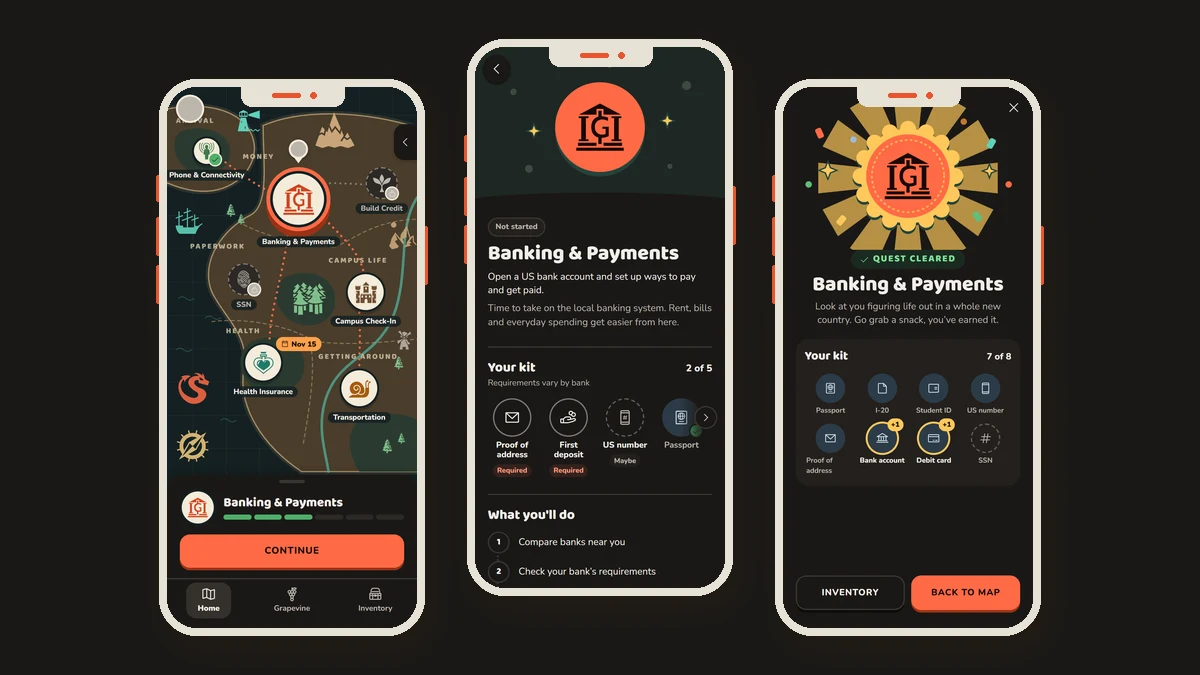
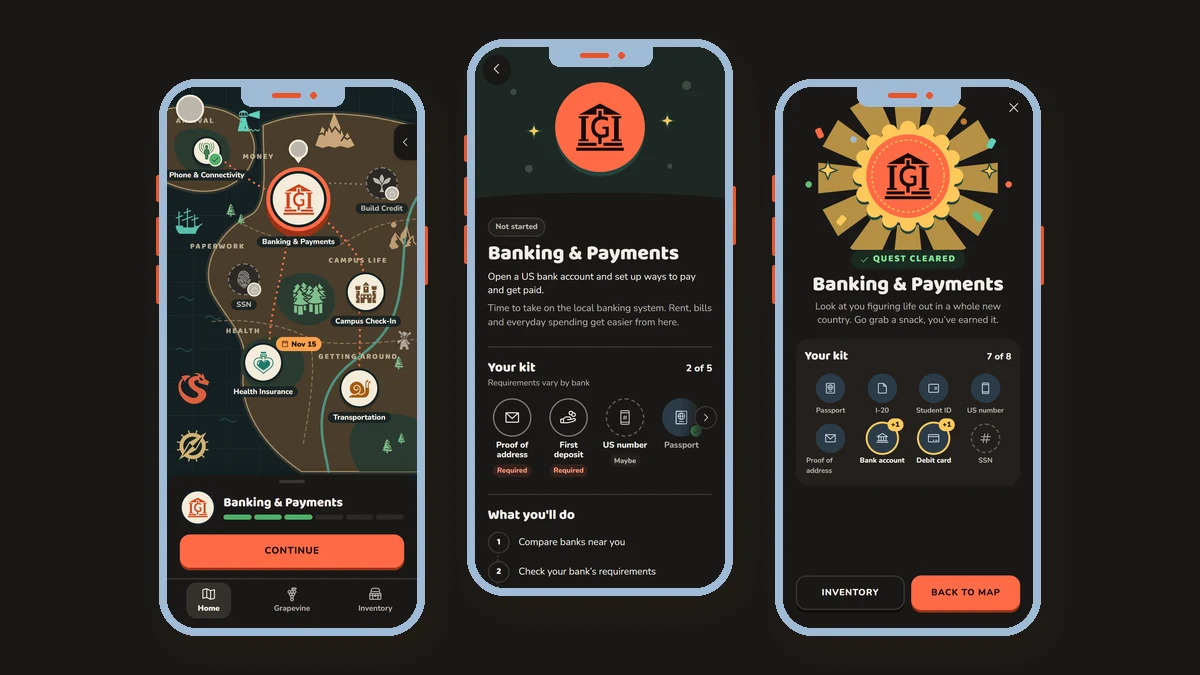
Lendi: blue phone frames in dark mode

Changed region(s): [[0.1233, 0.0311, 0.6167, 0.9644], [0.6475, 0.0933, 0.8633, 0.9644], [0.8633, 0.1556, 0.8942, 0.9022]]

diff --git a/case-studies/boutique-visit-recaps/index.html b/case-studies/boutique-visit-recaps/index.html
@@ -26,9 +26,9 @@
   <link rel="preconnect" href="https://fonts.gstatic.com" crossorigin>
   <link href="https://fonts.googleapis.com/css2?family=Playfair+Display:ital,wght@0,700;0,900;1,900&family=Lora:ital,wght@0,400;0,700;1,400&family=Inter:wght@400;500;600&family=Manufacturing+Consent&display=swap" rel="stylesheet">
   <!-- Same ?v= as index.html; bump all three together -->
-  <link rel="stylesheet" href="../../assets/css/style.css?v=2026-11-15b">
-  <link rel="stylesheet" href="../../assets/css/case-study.css?v=2026-11-15b">
-  <script src="../../assets/js/main.js?v=2026-11-15b" defer></script>
+  <link rel="stylesheet" href="../../assets/css/style.css?v=2026-11-15c">
+  <link rel="stylesheet" href="../../assets/css/case-study.css?v=2026-11-15c">
+  <script src="../../assets/js/main.js?v=2026-11-15c" defer></script>
 </head>
 <body>
 

diff --git a/case-studies/insightcuts/index.html b/case-studies/insightcuts/index.html
@@ -26,9 +26,9 @@
   <link rel="preconnect" href="https://fonts.gstatic.com" crossorigin>
   <link href="https://fonts.googleapis.com/css2?family=Playfair+Display:ital,wght@0,700;0,900;1,900&family=Lora:ital,wght@0,400;0,700;1,400&family=Inter:wght@400;500;600&family=Manufacturing+Consent&display=swap" rel="stylesheet">
   <!-- Same ?v= as index.html; bump all three together -->
-  <link rel="stylesheet" href="../../assets/css/style.css?v=2026-11-15b">
-  <link rel="stylesheet" href="../../assets/css/case-study.css?v=2026-11-15b">
-  <script src="../../assets/js/main.js?v=2026-11-15b" defer></script>
+  <link rel="stylesheet" href="../../assets/css/style.css?v=2026-11-15c">
+  <link rel="stylesheet" href="../../assets/css/case-study.css?v=2026-11-15c">
+  <script src="../../assets/js/main.js?v=2026-11-15c" defer></script>
 </head>
 <body>
 

diff --git a/case-studies/lendi/index.html b/case-studies/lendi/index.html
@@ -26,9 +26,9 @@
   <link rel="preconnect" href="https://fonts.gstatic.com" crossorigin>
   <link href="https://fonts.googleapis.com/css2?family=Playfair+Display:ital,wght@0,700;0,900;1,900&family=Lora:ital,wght@0,400;0,700;1,400&family=Inter:wght@400;500;600&family=Manufacturing+Consent&display=swap" rel="stylesheet">
   <!-- Same ?v= as index.html; bump all three together -->
-  <link rel="stylesheet" href="../../assets/css/style.css?v=2026-11-15b">
-  <link rel="stylesheet" href="../../assets/css/case-study.css?v=2026-11-15b">
-  <script src="../../assets/js/main.js?v=2026-11-15b" defer></script>
+  <link rel="stylesheet" href="../../assets/css/style.css?v=2026-11-15c">
+  <link rel="stylesheet" href="../../assets/css/case-study.css?v=2026-11-15c">
+  <script src="../../assets/js/main.js?v=2026-11-15c" defer></script>
 </head>
 <body>
 

diff --git a/case-studies/tiffany-wishlist/index.html b/case-studies/tiffany-wishlist/index.html
@@ -26,9 +26,9 @@
   <link rel="preconnect" href="https://fonts.gstatic.com" crossorigin>
   <link href="https://fonts.googleapis.com/css2?family=Playfair+Display:ital,wght@0,700;0,900;1,900&family=Lora:ital,wght@0,400;0,700;1,400&family=Inter:wght@400;500;600&family=Manufacturing+Consent&display=swap" rel="stylesheet">
   <!-- Same ?v= as index.html; bump all three together -->
-  <link rel="stylesheet" href="../../assets/css/style.css?v=2026-11-15b">
-  <link rel="stylesheet" href="../../assets/css/case-study.css?v=2026-11-15b">
-  <script src="../../assets/js/main.js?v=2026-11-15b" defer></script>
+  <link rel="stylesheet" href="../../assets/css/style.css?v=2026-11-15c">
+  <link rel="stylesheet" href="../../assets/css/case-study.css?v=2026-11-15c">
+  <script src="../../assets/js/main.js?v=2026-11-15c" defer></script>
 </head>
 <body>
 

diff --git a/case-studies/worlds-of-hello/index.html b/case-studies/worlds-of-hello/index.html
@@ -26,9 +26,9 @@
   <link rel="preconnect" href="https://fonts.gstatic.com" crossorigin>
   <link href="https://fonts.googleapis.com/css2?family=Playfair+Display:ital,wght@0,700;0,900;1,900&family=Lora:ital,wght@0,400;0,700;1,400&family=Inter:wght@400;500;600&family=Manufacturing+Consent&display=swap" rel="stylesheet">
   <!-- Same ?v= as index.html; bump all three together -->
-  <link rel="stylesheet" href="../../assets/css/style.css?v=2026-11-15b">
-  <link rel="stylesheet" href="../../assets/css/case-study.css?v=2026-11-15b">
-  <script src="../../assets/js/main.js?v=2026-11-15b" defer></script>
+  <link rel="stylesheet" href="../../assets/css/style.css?v=2026-11-15c">
+  <link rel="stylesheet" href="../../assets/css/case-study.css?v=2026-11-15c">
+  <script src="../../assets/js/main.js?v=2026-11-15c" defer></script>
 </head>
 <body>
 

diff --git a/index.html b/index.html
@@ -34,8 +34,8 @@
   <link rel="preconnect" href="https://fonts.gstatic.com" crossorigin>
   <link href="https://fonts.googleapis.com/css2?family=Playfair+Display:ital,wght@0,700;0,900;1,900&family=Lora:ital,wght@0,400;0,700;1,400&family=Inter:wght@400;500;600&family=Manufacturing+Consent&display=swap" rel="stylesheet">
   <!-- When style.css or main.js changes, set ?v= on both lines, and on every case-studies/*/index.html, to the deploy date (YYYY-MM-DD, plus b, c… for a second deploy that day) so returning visitors get the new files -->
-  <link rel="stylesheet" href="./assets/css/style.css?v=2026-11-15b">
-  <script src="./assets/js/main.js?v=2026-11-15b" defer></script>
+  <link rel="stylesheet" href="./assets/css/style.css?v=2026-11-15c">
+  <script src="./assets/js/main.js?v=2026-11-15c" defer></script>
 </head>
 <body>
 
